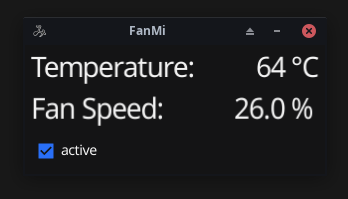
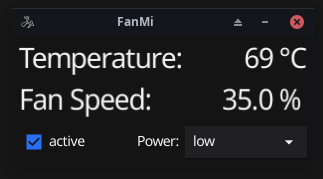
Power Profile Support

diff --git a/app/fancontrol.go b/app/fancontrol.go
@@ -107,17 +107,65 @@ func calculateStep(temp float32, lowEntry, highEntry config.Entry) float32 {
 	return relSpeed
 }
 
-func fanControl(ui ui.UI, dirPath string, config *config.Configuration) chan bool {
-	pwmPath := path.Join(dirPath, "pwm1")
-	fanModePath := path.Join(dirPath, "pwm1_enable")
-	tempInputPath := path.Join(dirPath, "temp1_input")
+func writePowerMode(powerModePath, mode string) error {
+	file, err := os.OpenFile(powerModePath, os.O_WRONLY, os.ModePerm)
+	if err != nil {
+		return fmt.Errorf("Error writing to %s: %s\n", powerModePath, err.Error())
+	}
+
+	_, err = file.Write([]byte(mode))
+	if err != nil {
+		return fmt.Errorf("Error writing to %s: %s\n", powerModePath, err.Error())
+	}
+
+	// fmt.Printf("Written %s to %s\n", mode, powerModePath)
+	return nil
+}
+
+func readPowerMode(powerModePath string) (string, error) {
+	data, err := os.ReadFile(powerModePath)
+	if err != nil {
+		return "", fmt.Errorf("Error reading temperature from %s: %s\n", powerModePath, err.Error())
+	}
+
+	return strings.TrimSpace(string(data)), nil
+}
+
+func fanControl(ui ui.UI, deviceDirPath, hwmonDirPath string, config *config.Configuration) chan bool {
+	powerModePath := path.Join(deviceDirPath, "power_dpm_force_performance_level")
+	pwmPath := path.Join(hwmonDirPath, "pwm1")
+	fanModePath := path.Join(hwmonDirPath, "pwm1_enable")
+	tempInputPath := path.Join(hwmonDirPath, "temp1_input")
 
 	done := make(chan bool)
 
 	go (func() {
 		var lastTemp float32 = -500
+		powerModeAvailable := true
 
 		for config.Running {
+			// Power Mode
+			if powerModeAvailable {
+				var err error
+
+				if config.ModeChanged && config.Mode != "" {
+					err = writePowerMode(powerModePath, config.Mode)
+					config.ModeChanged = false
+					if err != nil {
+						ui.Message(err.Error())
+					}
+				}
+				config.Mode, err = readPowerMode(powerModePath)
+				if err != nil {
+					if powerModeAvailable {
+						fmt.Fprintf(os.Stderr, "Cannot read power mode: %s", err.Error())
+					}
+					powerModeAvailable = false
+					config.Mode = ""
+				}
+			}
+			ui.PowerMode(config.Mode)
+
 			temp := readTemp(ui, tempInputPath)
 			ui.Temperature(temp)
 			if !config.Active {

diff --git a/app/ui/fyneui.go b/app/ui/fyneui.go
@@ -11,18 +11,11 @@ import (
 	"fyne.io/fyne/v2/layout"
 	"fyne.io/fyne/v2/theme"
 	"fyne.io/fyne/v2/widget"
+	"fyne.io/systray"
 	"github.com/sirion/fanmi/app/config"
 )
 
-type FyneUI struct {
-	done   chan bool
-	config *config.Configuration
-
-	app   fyne.App
-	win   fyne.Window
-	temp  *canvas.Text
-	speed *canvas.Text
-}
+/// Helper Functions
 
 func NewBigText(text string) *canvas.Text {
 	app := fyne.CurrentApp()
@@ -33,6 +26,20 @@ func NewBigText(text string) *canvas.Text {
 	cTxt.TextSize = theme.TextSize() * 2
 
 	return cTxt
+}
+
+/// FyneUI
+
+type FyneUI struct {
+	done   chan bool
+	config *config.Configuration
+
+	app       fyne.App
+	win       fyne.Window
+	temp      *canvas.Text
+	speed     *canvas.Text
+	mode      *widget.Select
+	modeLabel *canvas.Text
 }
 
 func (ui *FyneUI) Init(config *config.Configuration) chan bool {
@@ -67,6 +74,22 @@ func (ui *FyneUI) Init(config *config.Configuration) chan bool {
 		ui.speed.Refresh()
 	})
 	chkActive.SetChecked(ui.config.Active)
+
+	ui.modeLabel = canvas.NewText("Power:", theme.ForegroundColor())
+	ui.mode = widget.NewSelect([]string{
+		"auto",
+		"low",
+		"high",
+		// "manual",
+		// "profile_standard",
+		// "profile_min_sclk",
+		// "profile_min_mclk",
+		// "profile_peak",
+	}, func(mode string) {
+		ui.config.SetPowerMode(mode)
+	})
+	ui.mode.Selected = "auto"
+
 	ui.win.SetContent(container.NewVBox(
 		container.NewHBox(
 			container.NewVBox(
@@ -89,6 +112,8 @@ func (ui *FyneUI) Init(config *config.Configuration) chan bool {
 		container.NewHBox(
 			chkActive,
 			layout.NewSpacer(),
+			ui.modeLabel,
+			ui.mode,
 		),
 	))
 
@@ -124,6 +149,17 @@ func (ui *FyneUI) Speed(speed float32) {
 	ui.speed.Text = fmt.Sprintf("%2.1f", speed*100)
 	ui.speed.Refresh()
 	// ui.speed.SetText(fmt.Sprintf("%2.1f%%", speed*100))
+}
+
+func (ui *FyneUI) PowerMode(mode string) {
+	if mode == "" {
+		// Power mode not supported
+		ui.mode.Hidden = true
+		ui.modeLabel.Hidden = true
+	} else {
+		ui.mode.Selected = mode
+	}
+	ui.mode.Refresh()
 }
 
 func (*FyneUI) Message(message string) {

diff --git a/app/ui/consoleui.go b/app/ui/consoleui.go
@@ -43,6 +43,12 @@ func (ui *ConsoleUI) Init(config *config.Configuration) chan bool {
 				// Space toggles active/inactive
 				ui.config.Active = !ui.config.Active
 				ui.update()
+			} else if bt[0] == 'a' {
+				config.SetPowerMode("auto")
+			} else if bt[0] == 'l' {
+				config.SetPowerMode("low")
+			} else if bt[0] == 'h' {
+				config.SetPowerMode("high")
 			} else if bt[0] == 3 {
 				// Ctrl-C
 				ui.Message("Ctrl-C caught. Exiting.\n")
@@ -50,6 +56,7 @@ func (ui *ConsoleUI) Init(config *config.Configuration) chan bool {
 				ui.config.Active = false
 				ui.Exit()
 			}
+			ui.update()
 		}
 	})()
 
@@ -72,26 +79,35 @@ func (*ConsoleUI) Fatal(exitCode int, message string) {
 	os.Exit(exitCode)
 }
 
-func (c *ConsoleUI) Temperature(temp float32) {
-	c.temp = temp
-	c.update()
+func (ui *ConsoleUI) Temperature(temp float32) {
+	ui.temp = temp
+	ui.update()
 }
 
-func (c *ConsoleUI) Speed(speed float32) {
-	c.speed = speed
-	c.update()
+func (ui *ConsoleUI) Speed(speed float32) {
+	ui.speed = speed
+	ui.update()
+}
+
+func (*ConsoleUI) PowerMode(mode string) {
+	// Ignored for now
 }
 
 func (*ConsoleUI) Message(message string) {
-	fmt.Printf("                                                       \r\n")
+	fmt.Printf("\x1b[0K\r\n")
 	fmt.Print(message)
 }
 
-func (c *ConsoleUI) update() {
-	speedPercent := float32(int(c.speed*10000)) / 100
+func (ui *ConsoleUI) update() {
+	speedPercent := float32(int(ui.speed*10000)) / 100
 	prefix := ""
-	if !c.config.Active {
+	if !ui.config.Active {
 		prefix = "[INACTIVE] "
 	}
-	fmt.Printf("\r\x1b[0K%sTemperature: %2.0f°\tSpeed: %3.2f%%\r", prefix, c.temp, speedPercent)
+	powerMode := ""
+	if ui.config.Mode != "" {
+		powerMode = fmt.Sprintf("\t(Profile: %s)", ui.config.Mode)
+	}
+
+	fmt.Printf("\r\x1b[0K%sTemperature: %2.0f°\tSpeed: %3.2f%%%s\r", prefix, ui.temp, speedPercent, powerMode)
 }

diff --git a/app/main.go b/app/main.go
@@ -59,16 +59,17 @@ func main() {
 	workers := make([]chan bool, 0)
 	for _, matchPath := range pwmMatches {
 		// Task: Start Monitor Routine per card
-		dirPath := path.Dir("/sys/class/drm/" + matchPath)
+		hwmonDirPath := path.Dir("/sys/class/drm/" + matchPath)
+		deviceDirPath := path.Dir(path.Dir(hwmonDirPath))
 
-		pwmPath := path.Join(dirPath, "pwm1")
-		enablePath := path.Join(dirPath, "pwm1_enable")
-		tempInputPath := path.Join(dirPath, "temp1_input")
+		pwmPath := path.Join(hwmonDirPath, "pwm1")
+		enablePath := path.Join(hwmonDirPath, "pwm1_enable")
+		tempInputPath := path.Join(hwmonDirPath, "temp1_input")
 		if !fileExists(pwmPath) || !fileExists(enablePath) || !fileExists(tempInputPath) {
 			continue
 		}
 
-		workers = append(workers, fanControl(ui, dirPath, conf))
+		workers = append(workers, fanControl(ui, deviceDirPath, hwmonDirPath, conf))
 	}
 
 	// Task: Check Compatibility

diff --git a/app/config/configuration.go b/app/config/configuration.go
@@ -10,13 +10,15 @@ import (
 )
 
 type Configuration struct {
-	Running bool   `json:"-"`
-	Active  bool   `json:"-"`
-	UI      string `json:"-"`
-
+	Mode            string  `json:"powerMode"`
 	CheckIntervalMs uint    `json:"checkIntervalMs"`
 	MinChange       float32 `json:"minChange"`
 	Values          Values  `json:"values"`
+
+	ModeChanged bool   `json:"-"`
+	Running     bool   `json:"-"`
+	Active      bool   `json:"-"`
+	UI          string `json:"-"`
 }
 
 func ReadConfig() *Configuration {
@@ -102,4 +104,10 @@ func showHelp() {
 	fmt.Println(string(defaultConfigJSON))
 	fmt.Println(``)
 	os.Exit(0)
+}
+
+func (c *Configuration) SetPowerMode(mode string) {
+	c.ModeChanged = mode != c.Mode
+	c.Mode = mode
+	// fmt.Printf("Power mode changed to %s (%t)\n", c.Mode, c.ModeChanged)
 }

diff --git a/app/ui/noui.go b/app/ui/noui.go
@@ -30,6 +30,7 @@ func (*NoUI) Fatal(exitCode int, message string) {
 	fmt.Fprint(os.Stderr, message)
 	os.Exit(exitCode)
 }
-func (*NoUI) Temperature(float32) {}
-func (*NoUI) Speed(float32)       {}
-func (*NoUI) Message(string)      {}
+func (*NoUI) Temperature(float32)   {}
+func (*NoUI) Speed(float32)         {}
+func (*NoUI) Message(string)        {}
+func (*NoUI) PowerMode(mode string) {}

diff --git a/app/config/definitions.go b/app/config/definitions.go
@@ -20,6 +20,7 @@ var defaultConfig = Configuration{
 	Active:          true,
 	UI:              "graphic",
 	CheckIntervalMs: 3000,
+	Mode:            "",
 	MinChange:       2,
 	Values: Values{
 		{40, 0},

diff --git a/app/ui/ui.go b/app/ui/ui.go
@@ -10,6 +10,7 @@ type UI interface {
 	Fatal(exitCode int, message string)
 	Temperature(temp float32)
 	Speed(speed float32)
+	PowerMode(mode string)
 }
 
 func CreateUI(uiType string) UI {

diff --git a/README.md b/README.md
@@ -1,4 +1,8 @@
-# fanmi - Linux AMD GPU Fan Control
+# fanmi - Linux AMDGPU Fan Control
+
+A small utility that supports defining your own fan-curve and changing the power-profile.
+
+## Why?
 
 Inpired by [amdgpu-fancontrol](https://github.com/grmat/amdgpu-fancontrol), but I wanted a UI.
 
@@ -13,22 +17,23 @@ Also, I wanted to learn a new GUI-Framework with a simple project, that's why th
 |-|-|
 | ![GUI Interface](doc/main_window01.png) | ![](doc/main_console01.png) <hr>![](doc/main_console02.png) |
 
+All relevant information about the used files comes from [AMDGPU Documentation](https://docs.kernel.org/6.1/gpu/amdgpu/thermal.html).
 
 ## Getting started
 
-- Download the latest release binary or compile it yourself.
+- Download the latest release binary or compile it yourself (see [util/build.sh](util/build.sh)).
 - (optional) Make the binary launch as root without sudo (`sudo chown root:root ./fanmi && sudo chmod u+s ./fanmi`)
 
 ## CLI Use
 
 You can have three UI-options:
 
-1. `--ui graphic` - GUI - (Default) Shows a window with temperature, fan-speed and option to switch on/off
-2. `--ui console` - Console - Prints out temperature and fan-speed on the console - press space to switch on/off
+1. `--ui graphic` - GUI - (Default) Shows a window with temperature, fan-speed and option to switch on/off and a power profile dropdown
+2. `--ui console` - Console - Prints out temperature and fan-speed on the console - press space to switch on/off, 'a', 'l', 'h' to switch power profile and ctrl-c to exit
 3. `--ui none` - No output
 
 If you want to change the fan-curve, you can create a configuration file in JSON.
-Either provide the path to the file as CLI-argument (`--config "path/to/config.json"`), or put it at the default location, which you can find by invoking fanmi with `--help`.
+Either provide the path to the file as CLI-argument (`--config "path/to/config.json"`), or put it at the default location, which you can find by invoking fanmi with `--help`. (Should be `/home/[USERNAME]/.config/fanmi/config.json` on most systems.)
 
 The default configuration would look like this:
 
@@ -36,6 +41,7 @@ The default configuration would look like this:
 {
     "checkIntervalMs": 3000,
     "minChange": 2,
+    "powerMode": "",
     "values": [
         {
             "Temp": 40,

diff --git a/release-notes.md b/release-notes.md
@@ -1,0 +1,24 @@
+# Release Notes
+
+Changelog of the past releases
+
+## v0.2 (2023-08-14)
+
+Power mode support
+
+### Features
+
+- Power profile dropdown in GUI (auto, low, high)
+- Power profile via keypress ('a', 'l', 'h') in console UI
+- Startup power profile setting in configuration file
+
+## v0.1 (2023-07-19)
+
+Initial Release
+
+### Features
+
+- Activate and deactivate using UI
+- GUI, CLI-UI and quiet mode
+- Configuration file (JSON)
+- Settings: Check-interval, Minimal change in degrees, Fan-curve
